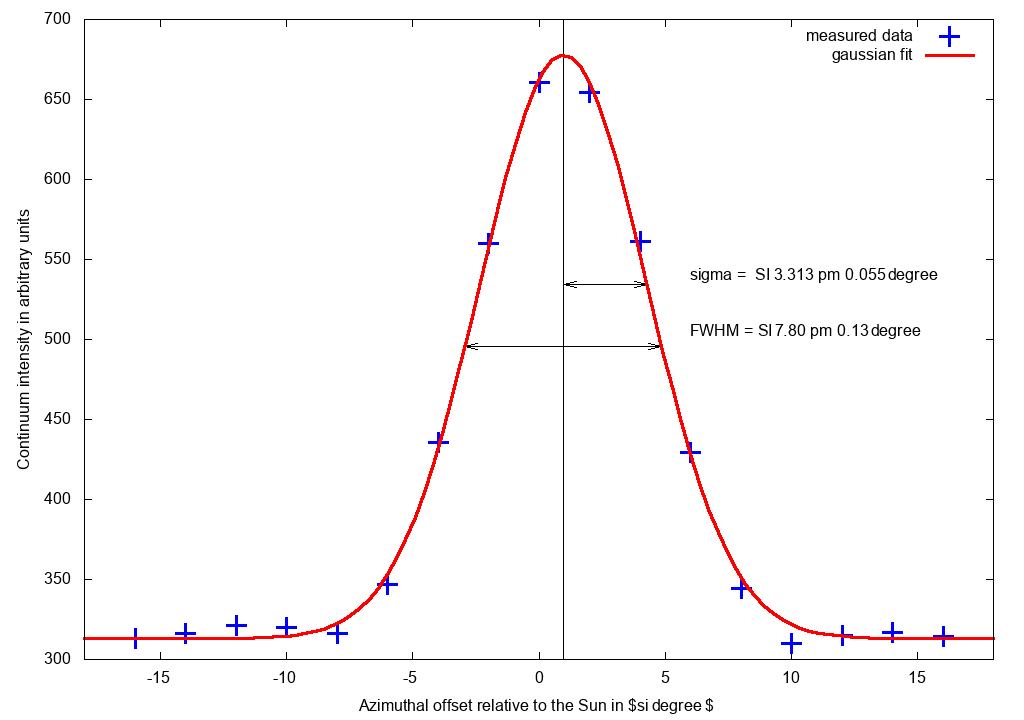
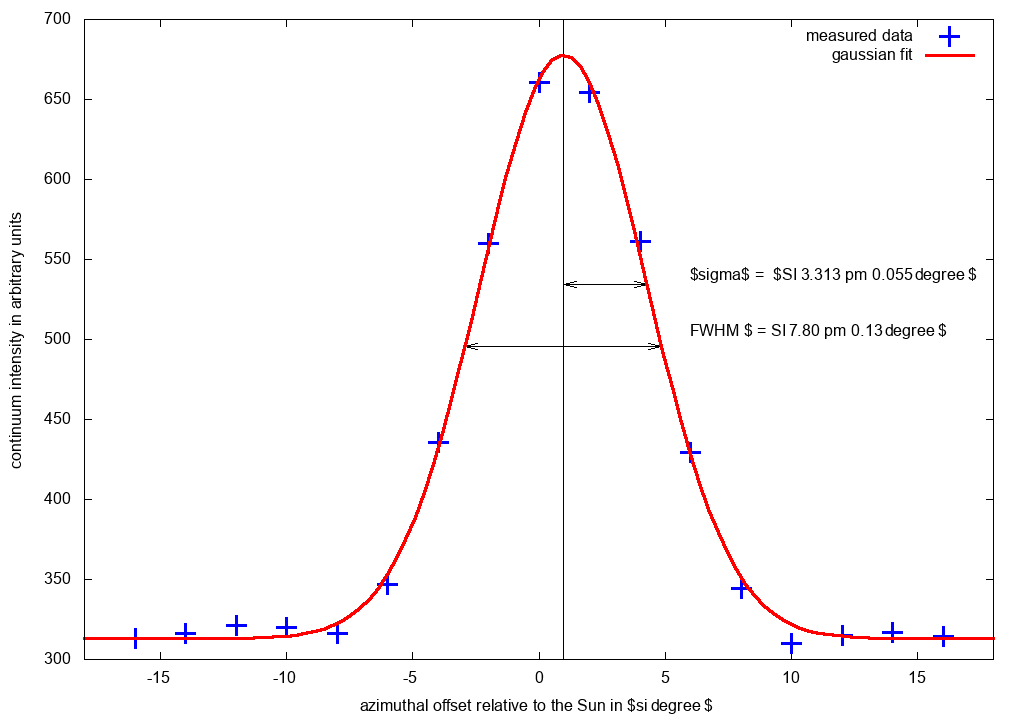
fehler wegmachen

diff --git a/Auswertung/plots/Sonnenkreuz_Az.tex b/Auswertung/plots/Sonnenkreuz_Az.tex
@@ -102,13 +102,13 @@
       \put(4688,484){\makebox(0,0){\strut{}$5$}}%
       \put(5501,484){\makebox(0,0){\strut{}$10$}}%
       \put(6315,484){\makebox(0,0){\strut{}$15$}}%
-      \put(4851,2813){\makebox(0,0)[l]{\strut{}FWHM = \SI{7.80 \pm 0.13}{\degree}}}%
-      \put(4851,3173){\makebox(0,0)[l]{\strut{}\sigma =  \SI{3.313 \pm 0.055}{\degree}}}%
+      \put(4851,2813){\makebox(0,0)[l]{\strut{}FWHM $ = \SI{7.80 \pm 0.13}{\degree}$}}%
+      \put(4851,3173){\makebox(0,0)[l]{\strut{}$\sigma =  \SI{3.313 \pm 0.055}{\degree}$}}%
     }%
     \gplgaddtomacro\gplfronttext{%
       \csname LTb\endcsname%%
-      \put(308,2761){\rotatebox{-270}{\makebox(0,0){\strut{}Continuum intensity in arbitrary units}}}%
-      \put(3874,154){\makebox(0,0){\strut{}Azimuthal offset relative to the Sun in $\si{}{\degree}$}}%
+      \put(209,2761){\rotatebox{-270}{\makebox(0,0){\strut{}continuum intensity in arbitrary units}}}%
+      \put(3874,154){\makebox(0,0){\strut{}azimuthal offset relative to the Sun in $\si{}{\degree}$}}%
       \csname LTb\endcsname%%
       \put(5816,4646){\makebox(0,0)[r]{\strut{}measured data}}%
       \csname LTb\endcsname%%

diff --git a/Auswertung/plots/Sonnenkreuz_Alt.tex b/Auswertung/plots/Sonnenkreuz_Alt.tex
@@ -102,13 +102,13 @@
       \put(4688,484){\makebox(0,0){\strut{}$5$}}%
       \put(5501,484){\makebox(0,0){\strut{}$10$}}%
       \put(6315,484){\makebox(0,0){\strut{}$15$}}%
-      \put(4688,2864){\makebox(0,0)[l]{\strut{}FWHM = \SI{5.63 \pm 0.12}{\degree}}}%
-      \put(4688,3276){\makebox(0,0)[l]{\strut{}\sigma =  \SI{2.389 \pm 0.052}{\degree}}}%
+      \put(4688,2864){\makebox(0,0)[l]{\strut{}FWHM $= \SI{5.63 \pm 0.12}{\degree}$}}%
+      \put(4688,3276){\makebox(0,0)[l]{\strut{}$\sigma =  \SI{2.389 \pm 0.052}{\degree}$}}%
     }%
     \gplgaddtomacro\gplfronttext{%
       \csname LTb\endcsname%%
-      \put(308,2761){\rotatebox{-270}{\makebox(0,0){\strut{}Continuum intensity in arbitrary units}}}%
-      \put(3874,154){\makebox(0,0){\strut{}Altitude offset relative to the Sun in $\si{}{\degree}$}}%
+      \put(209,2761){\rotatebox{-270}{\makebox(0,0){\strut{}continuum intensity in arbitrary units}}}%
+      \put(3874,154){\makebox(0,0){\strut{}altitude offset relative to the Sun in $\si{}{\degree}$}}%
       \csname LTb\endcsname%%
       \put(5816,4646){\makebox(0,0)[r]{\strut{}measured data}}%
       \csname LTb\endcsname%%
